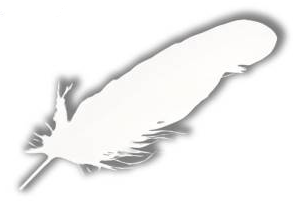
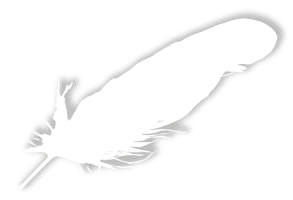
Make feather_static.png background transparent (alpha derived from brightness) instead of solid white; cache-bust the image reference

Changed region(s): [[0.0307, 0.03, 0.9829, 0.96]]

diff --git a/projects/project3.html b/projects/project3.html
@@ -254,7 +254,7 @@
     <span class="menu-toggle-label">Menu</span>
   </button>
   <span class="menu-toggle-feather" id="menuToggleFeather">
-    <img src="../assets/feather_static.png" alt="" class="feather-static">
+    <img src="../assets/feather_static.png?v=2" alt="" class="feather-static">
     <img src="../assets/feather.gif" alt="" class="feather-gif">
   </span>
   </div>

diff --git a/contact/index.html b/contact/index.html
@@ -15,7 +15,7 @@
     <span class="menu-toggle-label">Menu</span>
   </button>
   <span class="menu-toggle-feather" id="menuToggleFeather">
-    <img src="../assets/feather_static.png" alt="" class="feather-static">
+    <img src="../assets/feather_static.png?v=2" alt="" class="feather-static">
     <img src="../assets/feather.gif" alt="" class="feather-gif">
   </span>
   </div>

diff --git a/projects/index.html b/projects/index.html
@@ -15,7 +15,7 @@
     <span class="menu-toggle-label">Menu</span>
   </button>
   <span class="menu-toggle-feather" id="menuToggleFeather">
-    <img src="../assets/feather_static.png" alt="" class="feather-static">
+    <img src="../assets/feather_static.png?v=2" alt="" class="feather-static">
     <img src="../assets/feather.gif" alt="" class="feather-gif">
   </span>
   </div>

diff --git a/projects/project1.html b/projects/project1.html
@@ -16,7 +16,7 @@
     <span class="menu-toggle-label">Menu</span>
   </button>
   <span class="menu-toggle-feather" id="menuToggleFeather">
-    <img src="../assets/feather_static.png" alt="" class="feather-static">
+    <img src="../assets/feather_static.png?v=2" alt="" class="feather-static">
     <img src="../assets/feather.gif" alt="" class="feather-gif">
   </span>
   </div>

diff --git a/projects/project2.html b/projects/project2.html
@@ -16,7 +16,7 @@
     <span class="menu-toggle-label">Menu</span>
   </button>
   <span class="menu-toggle-feather" id="menuToggleFeather">
-    <img src="../assets/feather_static.png" alt="" class="feather-static">
+    <img src="../assets/feather_static.png?v=2" alt="" class="feather-static">
     <img src="../assets/feather.gif" alt="" class="feather-gif">
   </span>
   </div>

diff --git a/projects/project4.html b/projects/project4.html
@@ -15,7 +15,7 @@
     <span class="menu-toggle-label">Menu</span>
   </button>
   <span class="menu-toggle-feather" id="menuToggleFeather">
-    <img src="../assets/feather_static.png" alt="" class="feather-static">
+    <img src="../assets/feather_static.png?v=2" alt="" class="feather-static">
     <img src="../assets/feather.gif" alt="" class="feather-gif">
   </span>
   </div>

diff --git a/store/index.html b/store/index.html
@@ -16,7 +16,7 @@
     <span class="menu-toggle-label">Menu</span>
   </button>
   <span class="menu-toggle-feather" id="menuToggleFeather">
-    <img src="../assets/feather_static.png" alt="" class="feather-static">
+    <img src="../assets/feather_static.png?v=2" alt="" class="feather-static">
     <img src="../assets/feather.gif" alt="" class="feather-gif">
   </span>
   </div>
